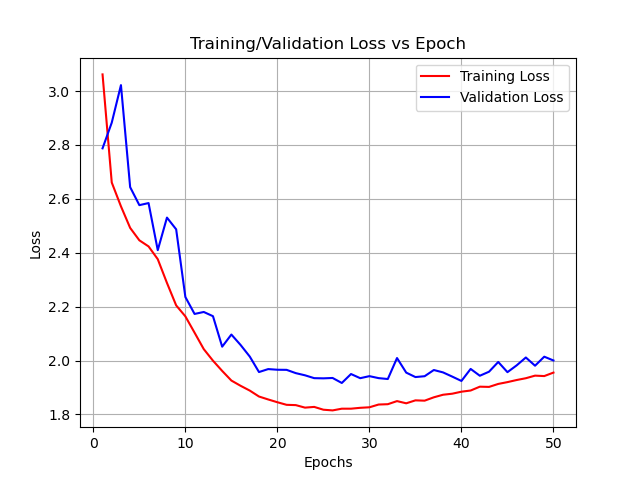
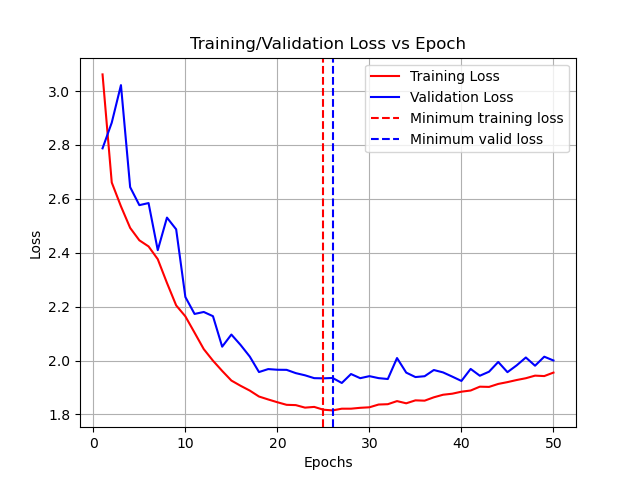
Update plot.py
Minor changes with better visualisation

Changed region(s): [[0.5625, 0.125, 0.875, 0.3125], [0.5, 0.125, 0.5312, 0.875]]

diff --git a/plot.py b/plot.py
@@ -33,10 +33,19 @@ def create_plots():
 	ax1.set_ylabel('Loss')
 
 	ax1.plot(range(1,num_epochs+1), train_loss, c='r', label='Training Loss')
-	ax1.plot(range(1, num_epochs + 1), valid_loss, c='b', label='Validation Loss')
-	leg = ax1.legend()
+	ax1.plot(range(1, num_epochs+1), valid_loss, c='b', label='Validation Loss')
+
+	min_train_loss = min(train_loss)
+	min_train_loss_epoch = train_loss.index(min_train_loss)
+	plt.axvline(x=min_train_loss_epoch, linestyle='--', color='r', label='Minimum training loss')
+
+	min_valid_loss = min(valid_loss)
+	min_valid_loss_epoch = valid_loss.index(min_valid_loss)
+	plt.axvline(x=min_valid_loss_epoch, linestyle='--', color = 'b', label='Minimum valid loss')
+	ax1.legend()
 	plt.grid()
-	plt.show()
+	plt.savefig('results/training_plot.png')
+	print("Plot saved in /results/training_plot.png")
 
 if __name__ == '__main__':
 	create_plots()
